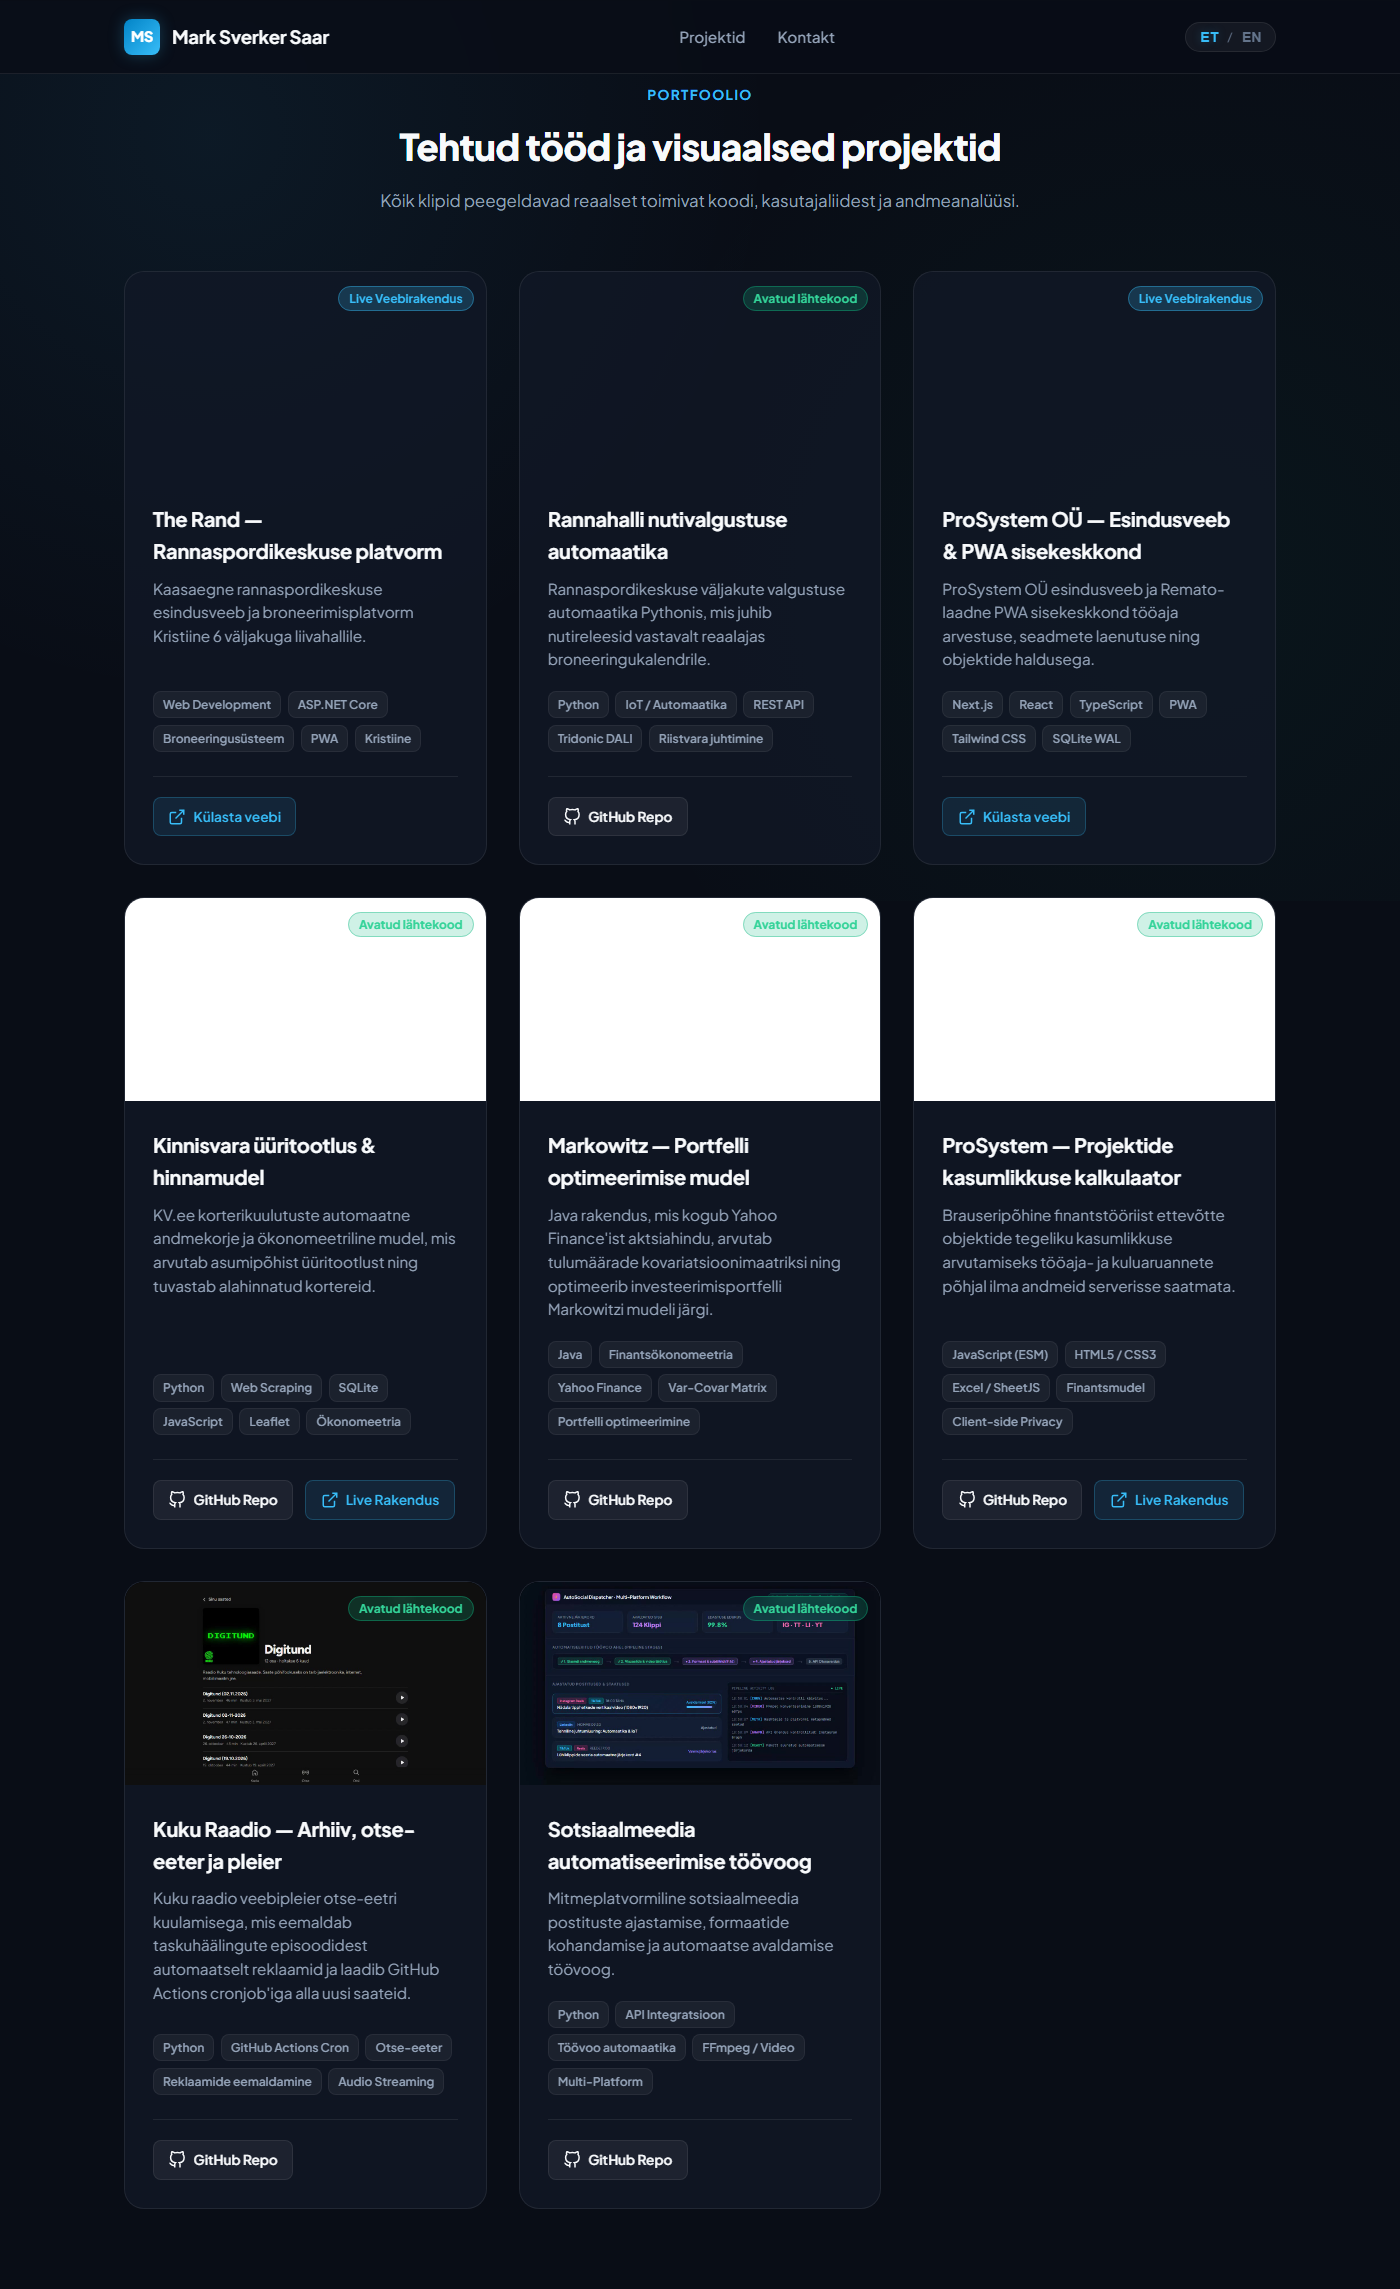
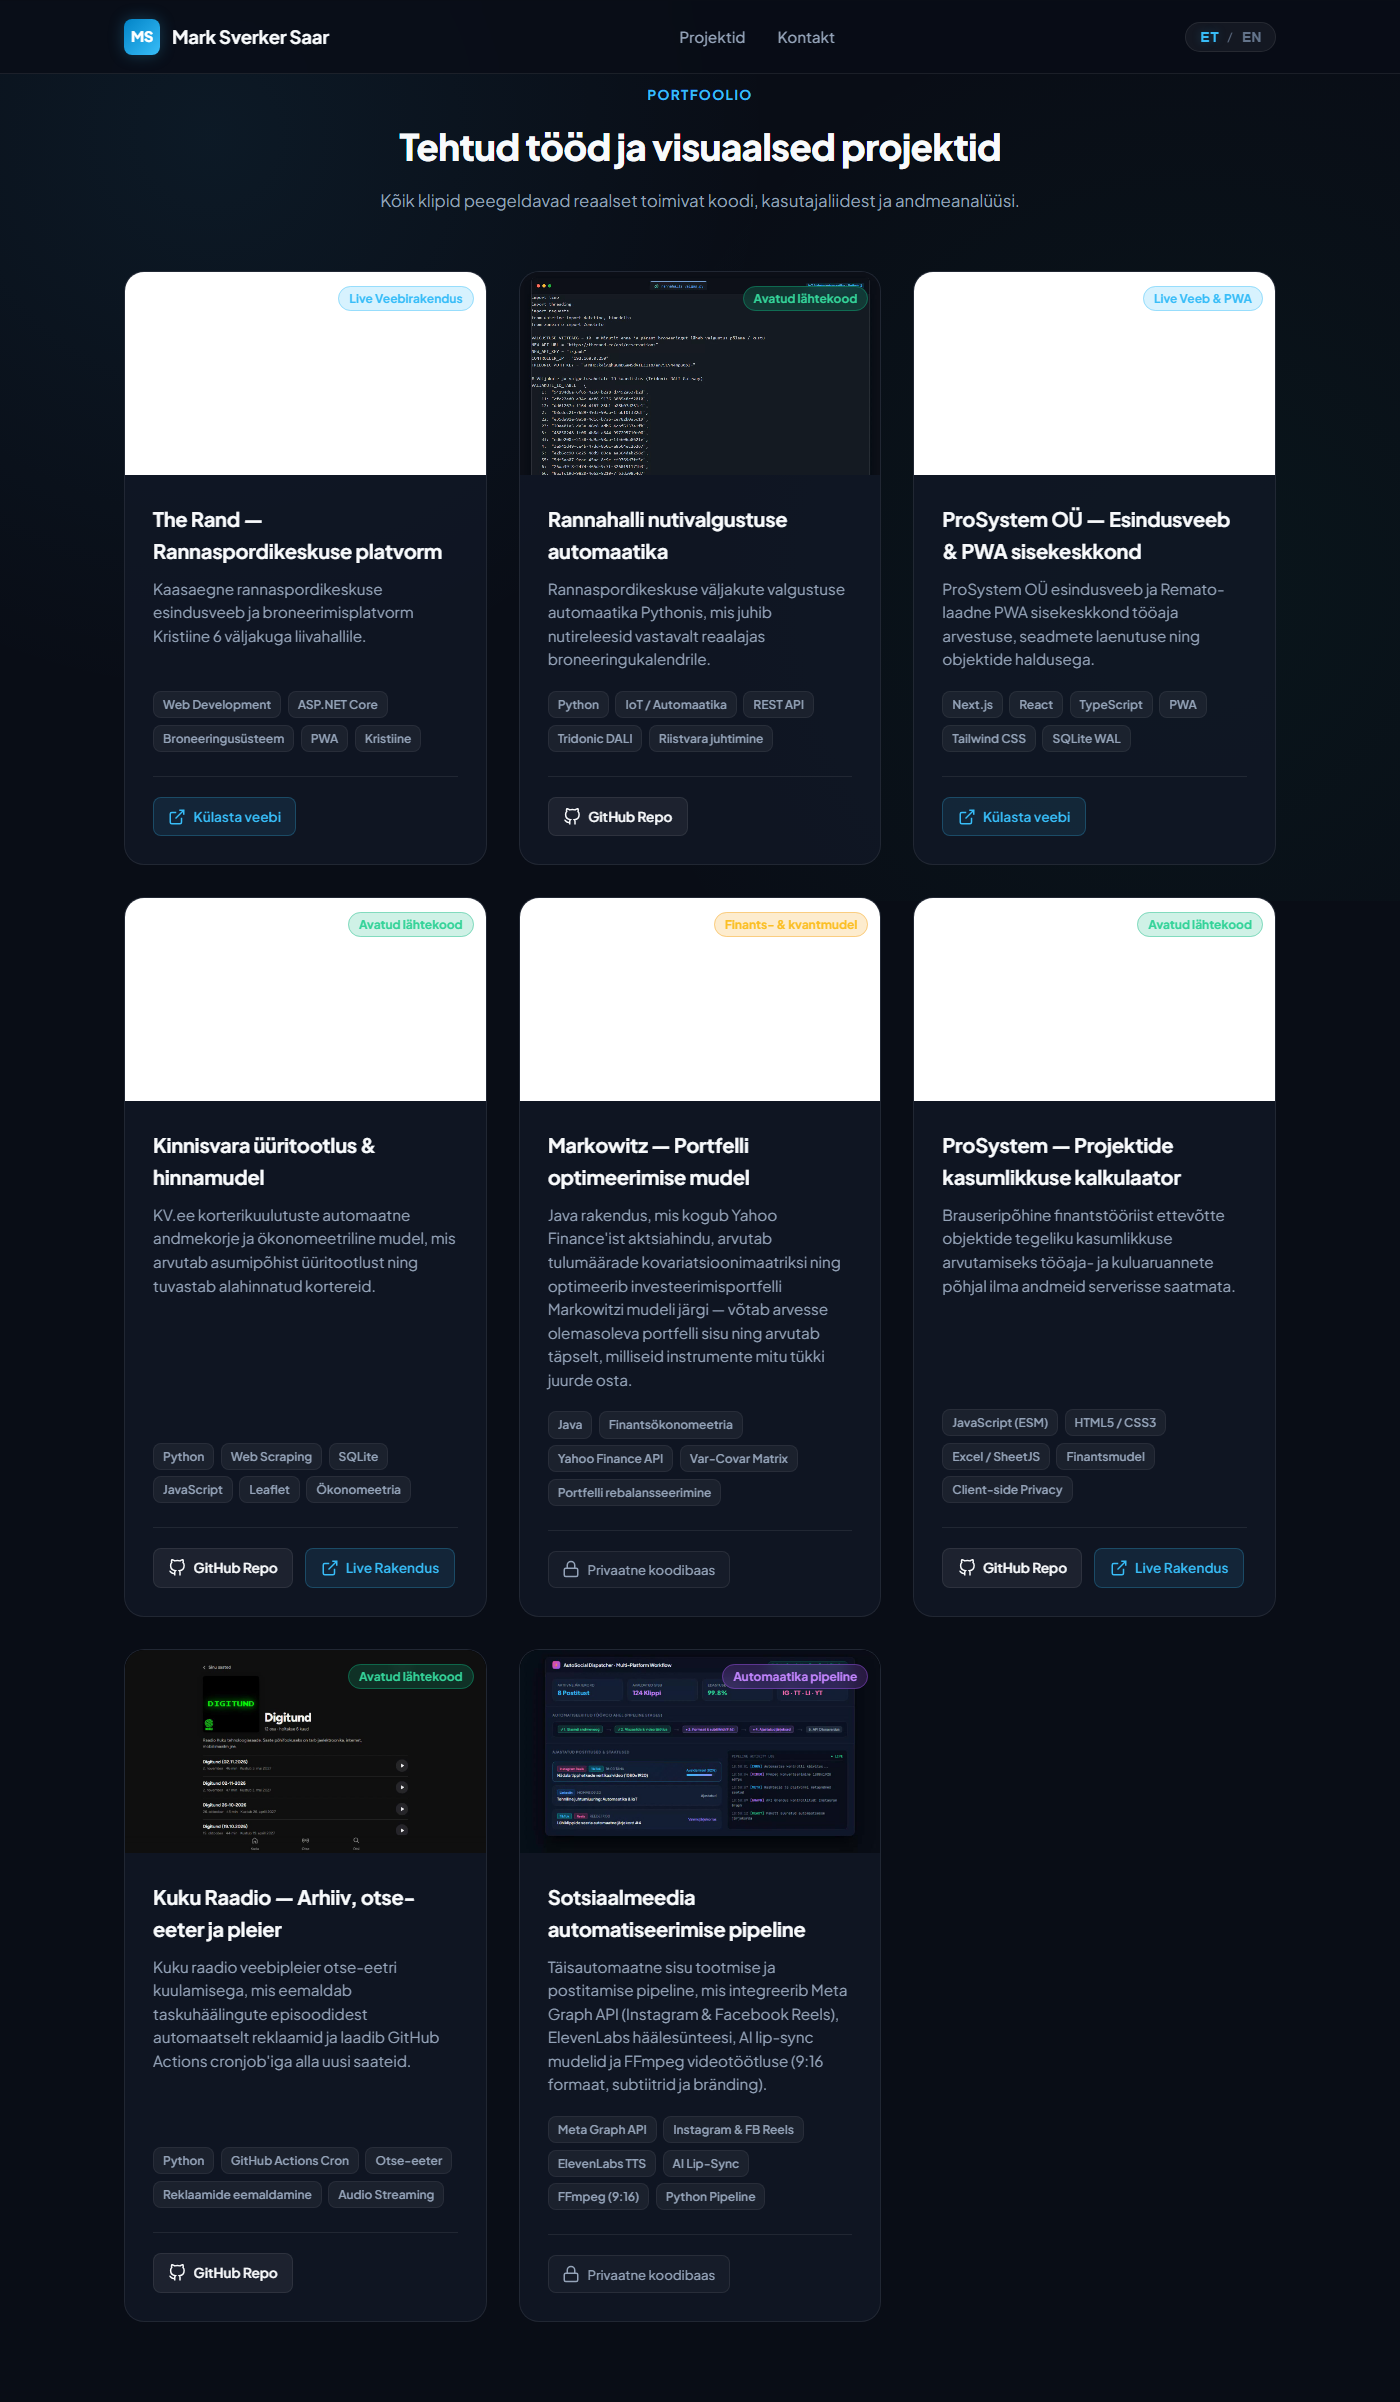
feat: täpsustatud avatud vs suletud koodi märgendid, sotsiaalmeedia API-d ja Markowitzi portfelli sisend

diff --git a/index.html b/index.html
@@ -164,7 +164,7 @@
               <source src="assets/videos/prosystem_ee.mp4" type="video/mp4">
             </video>
             <div class="media-overlay">
-              <span class="badge badge-live" data-i18n="badgeLiveApp">Live Veeb & PWA</span>
+              <span class="badge badge-live" data-i18n="badgeLiveWebPwa">Live Veeb & PWA</span>
             </div>
           </div>
           <div class="project-body">

diff --git a/scratch/test_batch3.py b/scratch/test_batch3.py
@@ -1,0 +1,90 @@
+from playwright.sync_api import sync_playwright
+import os
+
+def test_page():
+    with sync_playwright() as p:
+        browser = p.chromium.launch()
+        page = browser.new_page(viewport={"width": 1400, "height": 900})
+        
+        url = f"file:///{os.path.abspath('index.html').replace(os.sep, '/')}"
+        page.goto(url)
+        page.wait_for_timeout(1000)
+        
+        cards = page.locator(".project-card")
+        count = cards.count()
+        assert count == 8, f"Expected 8 cards, got {count}"
+        
+        print("\n--- ET BADGES & TITLES ---")
+        badges_et = [cards.nth(i).locator(".media-overlay .badge").inner_text() for i in range(count)]
+        titles_et = [cards.nth(i).locator(".project-title").inner_text() for i in range(count)]
+        for i in range(count):
+            print(f"{i+1}. [{badges_et[i]}] {titles_et[i]}")
+            
+        assert badges_et[0] == "Live Veebirakendus"
+        assert badges_et[1] == "Avatud lähtekood"
+        assert badges_et[2] == "Live Veeb & PWA"
+        assert badges_et[3] == "Avatud lähtekood"
+        assert badges_et[4] == "Finants- & kvantmudel"
+        assert badges_et[5] == "Avatud lähtekood"
+        assert badges_et[6] == "Avatud lähtekood"
+        assert badges_et[7] == "Automaatika pipeline"
+        
+        # Check Markowitz ET description
+        m_desc_et = cards.nth(4).locator(".project-desc").inner_text()
+        print("\nMarkowitz ET Desc:", m_desc_et)
+        assert "mitu tükki" in m_desc_et or "mitu tk" in m_desc_et
+        
+        # Check Autom-sots ET description
+        s_desc_et = cards.nth(7).locator(".project-desc").inner_text()
+        print("\nAutom-sots ET Desc:", s_desc_et)
+        assert "Meta Graph API" in s_desc_et
+        assert "ElevenLabs" in s_desc_et
+        assert "FFmpeg" in s_desc_et
+        
+        # Check that Markowitz and Autom-sots do NOT have GitHub links
+        assert cards.nth(4).locator("a[href*='Markowitz-Portfolio']").count() == 0
+        assert cards.nth(7).locator("a[href*='Autom-sots.meedia']").count() == 0
+        print("Confirmed no broken GitHub links on private repos.")
+        
+        # Switch to EN
+        print("\n--- EN BADGES & TITLES ---")
+        page.locator("#btnLangEN").click()
+        page.wait_for_timeout(500)
+        
+        badges_en = [cards.nth(i).locator(".media-overlay .badge").inner_text() for i in range(count)]
+        titles_en = [cards.nth(i).locator(".project-title").inner_text() for i in range(count)]
+        for i in range(count):
+            print(f"{i+1}. [{badges_en[i]}] {titles_en[i]}")
+            
+        assert badges_en[0] == "Live Platform"
+        assert badges_en[1] == "Open Source"
+        assert badges_en[2] == "Live Web & PWA"
+        assert badges_en[3] == "Open Source"
+        assert badges_en[4] == "Quantitative Finance Model"
+        assert badges_en[5] == "Open Source"
+        assert badges_en[6] == "Open Source"
+        assert badges_en[7] == "Automation Pipeline"
+        
+        # Check Markowitz EN description
+        m_desc_en = cards.nth(4).locator(".project-desc").inner_text()
+        print("\nMarkowitz EN Desc:", m_desc_en)
+        assert "share quantities to purchase" in m_desc_en
+        
+        # Check Autom-sots EN description
+        s_desc_en = cards.nth(7).locator(".project-desc").inner_text()
+        print("\nAutom-sots EN Desc:", s_desc_en)
+        assert "Meta Graph API" in s_desc_en
+        assert "ElevenLabs" in s_desc_en
+        
+        # Switch back to ET
+        page.locator("#btnLangET").click()
+        page.wait_for_timeout(500)
+        
+        # Screenshot
+        page.locator("#projects").screenshot(path="assets/projects_preview_updated.png")
+        print("\nSaved updated screenshot to assets/projects_preview_updated.png")
+        
+        browser.close()
+
+if __name__ == "__main__":
+    test_page()
